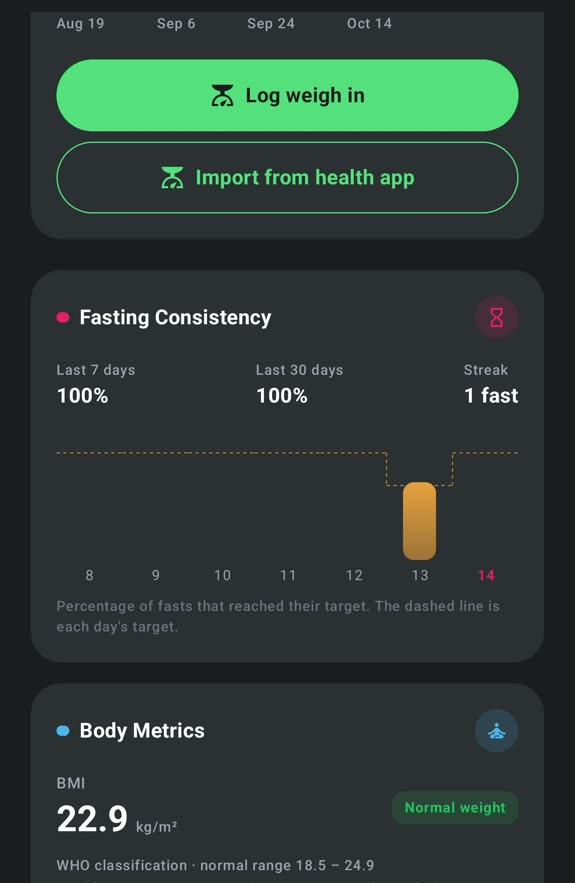
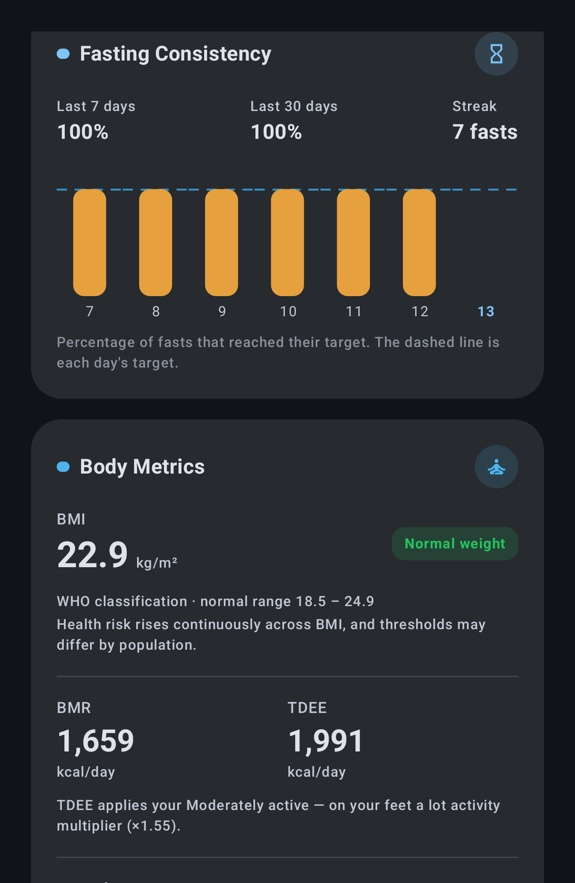
marketing

diff --git a/index.html b/index.html
@@ -187,7 +187,7 @@
               <img
                 class="block h-auto w-full rounded-[20px] border border-line-strong bg-surface shadow-[0_22px_60px_rgb(0_0_0/0.5)]"
                 src="/shots/home-dark.jpg"
-                alt="Fituous home screen: a calorie ring showing 1874 of 2346 kcal, protein, carb and fat bars, quick actions for scanning, searching, weighing in and exercise, a water meter and a carb split chart."
+                alt="Fituous home screen on iPhone: a segmented calorie ring showing 1,250 of 1990 kcal, protein at 88 of 149 g, carbs at 140 of 199 g and fat at 36 of 66 g, active calories and steps cards, and quick actions for scanning, searching, weighing in and exercise."
                 width="575"
                 height="1280"
               />
@@ -315,7 +315,7 @@
                   <img
                     class="block h-auto w-full rounded-[20px] border border-line-strong bg-surface shadow-[0_22px_60px_rgb(0_0_0/0.5)]"
                     src="/shots/food-detail.jpg"
-                    alt="Food detail sheet for Chocolate showing a servings stepper, measurement chips in grams, ounces, fluid ounces and servings, the Open Food Facts source, a saved-in-My-Foods notice and a full nutrition breakdown."
+                    alt="Food detail sheet for Oatmeal and berries showing a servings stepper, a save-as-my-food action, the time eaten, 320 kcal with protein, carb, fat and fibre bars, glycemic index, sugar and sodium, and a vitamins and minerals list."
                     width="575"
                     height="1280"
                     loading="lazy"
@@ -326,7 +326,7 @@
                   <img
                     class="block h-auto w-full rounded-[20px] border border-line-strong bg-surface shadow-[0_22px_60px_rgb(0_0_0/0.5)]"
                     src="/shots/meals.jpg"
-                    alt="The Meals tab listing Breakfast, Lunch and Dinner with per-meal calorie totals, and each logged food with its protein, carb and fat breakdown."
+                    alt="The Meals tab: a 1,250 kcal daily total with protein, carb, fat and fibre bars, Build, Add and History actions, and Breakfast and Lunch with per-meal totals and each logged food's macros."
                     width="575"
                     height="1280"
                     loading="lazy"
@@ -368,7 +368,7 @@
                   <img
                     class="block h-auto w-full rounded-[20px] border border-line-strong bg-surface shadow-[0_22px_60px_rgb(0_0_0/0.5)]"
                     src="/shots/progress-week.jpg"
-                    alt="Progress screen, week view: bar chart of daily calories with an average of 1686 kcal, one day under target out of seven, and the best day as Wednesday."
+                    alt="Progress screen, week view: a bar for each day of 9 to 15 November, three of seven days under target, an average of 1,046 kcal, and an 8-week weight trend beneath."
                     width="575"
                     height="1280"
                     loading="lazy"
@@ -379,7 +379,7 @@
                   <img
                     class="block h-auto w-full rounded-[20px] border border-line-strong bg-surface shadow-[0_22px_60px_rgb(0_0_0/0.5)]"
                     src="/shots/progress-month.jpg"
-                    alt="Progress screen, month view: a heat map of the month shaded by how close each day was to target, showing 6 of 26 days logged at an average of 1630 kcal."
+                    alt="Progress screen, month view: a heat map from 19 October to 15 November shaded by how close each day came to target, showing 4 of 26 days under target at an average of 1,097 kcal."
                     width="575"
                     height="1280"
                     loading="lazy"
@@ -415,7 +415,7 @@
                   <img
                     class="block h-auto w-full rounded-[20px] border border-line-strong bg-surface shadow-[0_22px_60px_rgb(0_0_0/0.5)]"
                     src="/shots/nutrients.jpg"
-                    alt="Nutrients screen listing Vitamin A, C, D, E, K, B1, B2, B3 and B5 with progress bars against personal targets and upper limits. Vitamin B5 shows no data rather than zero."
+                    alt="Nutrients screen: Vitamin A at 28%, C at 4%, D at 113%, E at 15%, K at 60% and B1 through B5, each with a progress bar against its personal target and upper limit, over a note that hand-entered foods carry no vitamin data."
                     width="575"
                     height="1280"
                     loading="lazy"
@@ -450,7 +450,7 @@
                   <img
                     class="block h-auto w-full rounded-[20px] border border-line-strong bg-surface shadow-[0_22px_60px_rgb(0_0_0/0.5)]"
                     src="/shots/hydration.jpg"
-                    alt="Hydration screen showing 1200 of a 2500 ml goal with a bottle-shaped fill meter, millilitre and ounce toggle, glass, bottle and flask presets, and a bar chart of the week's intake."
+                    alt="Hydration screen showing 50.7 of an 84.5 oz goal with a bottle-shaped fill meter, a millilitre and ounce toggle, glass, bottle and flask presets, and a bar chart of the week's intake."
                     width="575"
                     height="1280"
                     loading="lazy"
@@ -485,7 +485,7 @@
                   <img
                     class="block h-auto w-full rounded-[20px] border border-line-strong bg-surface shadow-[0_22px_60px_rgb(0_0_0/0.5)]"
                     src="/shots/fasting-schedule.jpg"
-                    alt="The intermittent fasting schedule picker listing 12:12, 14:10, 16:8, 18:6, 20:4, OMAD (23:1) and Custom, each with a plain-language description of how demanding it is."
+                    alt="The intermittent fasting schedule picker listing 12:12, 14:10, 16:8, 18:6, 20:4, OMAD (23:1) and Custom, with 16:8 selected and each option carrying a plain-language description of how demanding it is."
                     width="575"
                     height="883"
                     loading="lazy"
@@ -496,7 +496,7 @@
                   <img
                     class="block h-auto w-full rounded-[20px] border border-line-strong bg-surface shadow-[0_22px_60px_rgb(0_0_0/0.5)]"
                     src="/shots/fasting-progress.jpg"
-                    alt="The Fasting Consistency card: 100% of fasts reached their target over the last 7 days and the last 30 days, a streak of one fast, and a chart of fasts against the dashed line of each day's target."
+                    alt="The Fasting Consistency card: 100% of fasts reached their target over the last 7 days and the last 30 days, a streak of seven fasts, a chart of fasts against the dashed line of each day's target, and body metrics below."
                     width="575"
                     height="883"
                     loading="lazy"
@@ -528,7 +528,7 @@
                   <img
                     class="block h-auto w-full rounded-[20px] border border-line-strong bg-surface shadow-[0_22px_60px_rgb(0_0_0/0.5)]"
                     src="/shots/home-light.jpg"
-                    alt="The same home screen in its light theme: white surfaces, the same calorie ring, macro bars and quick actions."
+                    alt="The same home screen in its light theme: white surfaces, the same 1,250 of 1990 kcal ring, macro bars and quick actions."
                     width="575"
                     height="1280"
                     loading="lazy"
